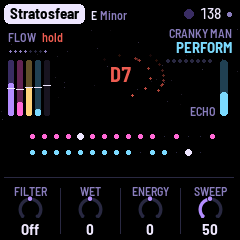
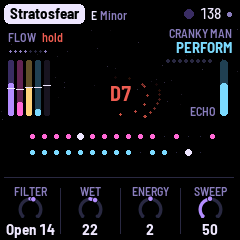
screen: the chord and its orbits lower (CY 48 -> 67), the orbits a little smaller, room for the chord's ring
The user, from a screenshot of Sunrain: the chord's name and its orbits sat right under the top bar,
beside the page's name and CRANKY MAN; a ring round the chord would run into them. The chord, the
orbits and the place of the ring to come (RING_RX/RY 50 x 34) now sit at y 67 in the main canvas,
the orbits 28 and 40 across (31, 44 before), the nudge's card centred on them. Scenario layout.amb
(host "layoutclash"): every orbit's and the ring's dot clear of the page's name with SOLO (the widest
name), its dots, CRANKY MAN, the section with hold and lock, the meters, ECHO and the lanes (424
places touched at y 48; none now). Screenshots checked on Sunrain (DM7, GM7, Bm7 with SOLO and ATMOS
SOUND, the SELECT level ring). Docshots regenerated (they carry batch 2's PERFORM values too).

diff --git a/host/amb_host.c b/host/amb_host.c
@@ -576,6 +576,38 @@ static int expect(const char *what, const char *val)
         got = ui.mac[what[3] - '0'];
     else if (!strncmp(what, "emac", 4) && what[4] >= '0' && what[4] <= '3' && !what[5])   /* emacN: as the engine hears it */
         got = en_mac[what[4] - '0'];
+    else if (!strcmp(what, "layoutclash")) {      /* (the user, 2026-10-28) the orbits round the chord (and its ring)
+                                                  * against what is round them, in the main canvas: the page's name,
+                                                  * its dots and CRANKY MAN (top right, the widest name), the section,
+                                                  * hold and lock (top left), the meters, the ECHO meter and its word,
+                                                  * the lanes; the places a dot would touch (0: none) */
+        int v, k;
+        int32_t pw = 0;
+        char pn[16];
+        static const float RX[] = {ORB_RX0, ORB_RX1, RING_RX}, RY[] = {ORB_RX0 * ORB_RY, ORB_RX1 * ORB_RY, RING_RY};
+        for (v = 0; v < NVIEWS; v++) {
+            caps(pn, VIEW_NAME[v], sizeof pn);
+            pw = text_w(&FONT_B, pn) > pw ? text_w(&FONT_B, pn) : pw;
+        }
+        got = 0;
+        for (v = 0; v < (int)(sizeof RX / sizeof RX[0]); v++)
+            for (k = 0; k < 720; k++) {
+                const double a = 6.283185307 * k / 720.0;
+                const int32_t x = CX + (int32_t)lrint(RX[v] * cos(a)), y = CY + (int32_t)lrint(RY[v] * sin(a));
+                const int32_t x0 = x - 2, x1 = x + 2, y0 = y - 2, y1 = y + 2;   /* (a dot, 3 px, and a pixel clear) */
+                int bad = (x1 >= 232 - pw - 6 - text_w(&FONT_XS, "SOLO") && y0 <= 12 + FONT_B.h)   /* the page's name,
+                                                                       * SOLO, CRANKY MAN */
+                    || (x1 >= 212 - NROUND * 6 && y0 <= 36)            /* the page's dots */
+                    || (x0 <= 8 + text_w(&FONT_XS, "EMERGE") + 6 + text_w(&FONT_XS, "hold") + 6 + text_w(&FONT_XS, "lock")
+                        && y0 <= 2 + FONT_XS.h)                        /* the section, hold, lock */
+                    || (x0 <= 52 && y0 <= 90)                          /* the meters, the bars under the section */
+                    || (x1 >= 216 - text_w(&FONT_XS, "ECHO") - 2 && y0 <= 90 && y1 >= 30)   /* ECHO */
+                    || y1 >= 104;                                      /* the lanes */
+                if (bad && !got)
+                    printf("  layoutclash: ellipse %d at (%d, %d)\n", v, (int)x, (int)y);
+                got += bad;
+            }
+    }
     else if (!strcmp(what, "mutes"))              /* the layers muted (EN_M_*: 1 chord .. 16 hats, 32 noise) */
         got = (int)ui.mutes;
     else if (!strcmp(what, "scopepk")) {          /* the scope buffer (the ripples' outlines), its peak */

diff --git a/firmware/src/app/ui.c b/firmware/src/app/ui.c
@@ -1801,7 +1801,15 @@ static void draw_header(void)
  * fading trail. Around it: the section and its bars (top left), the page (top right), the five layers' meters (left),
  * the echo's level (right), and the two sequences' lanes (below), each with its own step */
 #define CX 120
-#define CY 48
+#define CY 67                                    /* (the user, 2026-10-28: down from 48, the chord, its orbits and
+                                                  * its ring clear of the top bar, the page's name and CRANKY MAN, the
+                                                  * meters, ECHO and the lanes: the layout scenario checks it) */
+#define ORB_RX0 28.0f                            /* the orbits: the Sequence's across, Sequence 2's (31, 44 before the
+                                                  * ring); their height */
+#define ORB_RX1 40.0f
+#define ORB_RY 0.68f
+#define RING_RX 50.0f                            /* the chord's ring (its progress), outside them */
+#define RING_RY 34.0f
 /* the echo's output, as measured: its peak each frame, the last few frames (a repeat's level is the peak around
  * when it's due) */
 #define EPK_N 16
@@ -1906,7 +1914,7 @@ static int draw_orbits(void)                     /* 1: one still moves */
 {
     int i, k, any = 0;
     for (i = 0; i < ORB_N; i++) {
-        const float rx = orb[i].layer ? 44.0f : 31.0f, ry = rx * 0.68f;
+        const float rx = orb[i].layer ? ORB_RX1 : ORB_RX0, ry = rx * ORB_RY;
         const uint16_t c = en_frozen ? K_FROST : orb[i].layer ? K_PULSE : K_BELL;
         if (!orb[i].on)
             continue;
@@ -2153,7 +2161,7 @@ static void draw_oct(uint32_t now)
  * and what changed; it fades out CARD_SHOW after */
 static void draw_card(uint32_t now)
 {
-    const int32_t w = 196, h = 50, x = CX - w / 2, y = 34;
+    const int32_t w = 196, h = 50, x = CX - w / 2, y = CY - 25;   /* (on the chord) */
     int f;
     uint16_t edge, hc, tc;
     if (!card_on(now))
